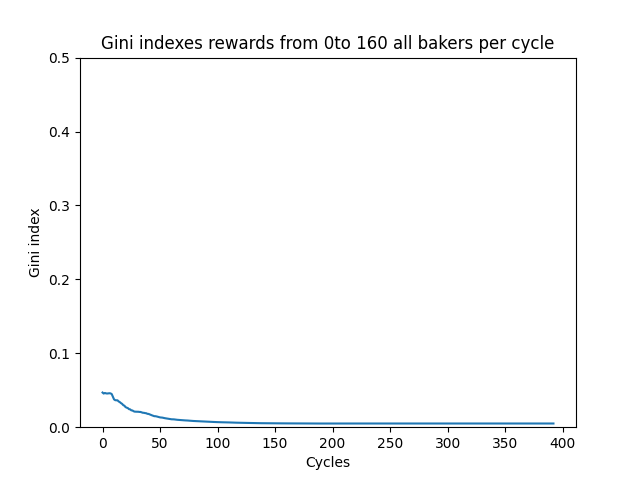
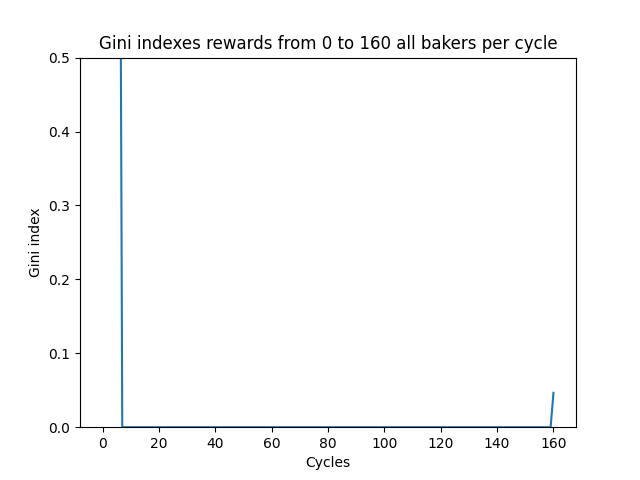
Correct gini index reward function

diff --git a/tezos_analysis.py b/tezos_analysis.py
@@ -18,7 +18,15 @@ def get_avg_reward_per_cycle():
 
 
 def get_baker_addresses():
-    baker_addresses = cur.execute('SELECT address FROM bakers').fetchall()
+    baker_addresses = cur.execute('SELECT DISTINCT(address) FROM bakers').fetchall()
+    baker_address_list = []
+    for add in baker_addresses:
+        baker_address_list.append(add[0])
+    return baker_address_list
+
+
+def get_baker_addresses_from_block():
+    baker_addresses = cur.execute('SELECT DISTINCT(baker) FROM blocks').fetchall()
     baker_address_list = []
     for add in baker_addresses:
         baker_address_list.append(add[0])
@@ -29,23 +37,20 @@ def calculate_gini_index(wealths):
     """Compute Gini coefficient of array of values"""
     # convert list to numpy array
     wealths = np.asarray(wealths)
-    diffsum = 0
-    for i, xi in enumerate(wealths[:-1], 1):
-        diffsum += np.sum(np.abs(xi - wealths[i:]))
-    return diffsum / (len(wealths) ** 2 * np.mean(wealths))
+    if np.sum(wealths) == 0:
+        return 1
+    else:
+        diffsum = 0
+        for i, xi in enumerate(wealths[:-1], 1):
+            diffsum += np.sum(np.abs(xi - wealths[i:]))
+        return diffsum / (len(wealths) ** 2 * np.mean(wealths))
 
 
-# TODO: check this
 def compute_gini_all_bakers_per_cycle(start, end):
     gini_indexes_list = []
-    rewards = []
-    baker_address_list = get_baker_addresses()
-    # TODO=: check What we want: for each baker (i.e. about 400 baker -> 400 arrays) an array of rewards -> for each
-    #  of these we compute the gini and for each cycle we take all the rewards of the bakers and take the gini index
-    #  per baker per cycle
-    for baker in baker_address_list:
-        rew = cur.execute('SELECT reward FROM blocks where baker=? AND cycle >=? AND cycle <=? GROUP BY '
-                          'cycle, baker', (baker, start, end)).fetchall()
+    for cycle in range(start, end+1):
+        rewards = []
+        rew = cur.execute('SELECT reward FROM blocks WHERE cycle = %s' % cycle).fetchall()
         for r in rew:
             rewards.append(r[0])
         np.asarray(rewards)
@@ -146,7 +151,6 @@ def plot_histogram_5cycles_baker_rewards():
     plt.close()
 
 
-# TODO: needed?
 def plot_gini_indexes_rewards_all_bakers_per_cycle(start, end):
     gini_indexes_all_bakers_rewards = compute_gini_all_bakers_per_cycle(start, end)
     y_data_length = len(gini_indexes_all_bakers_rewards)
@@ -155,7 +159,7 @@ def plot_gini_indexes_rewards_all_bakers_per_cycle(start, end):
     y_data = gini_indexes_all_bakers_rewards
     plt.ylim(0.0, 0.5)  # make it the same scale as the plots for the stakes
     plt.plot(x_data, y_data)
-    plt.title('Gini indexes rewards from ' + str(start) + 'to ' + str(end) + ' all bakers per cycle')
+    plt.title('Gini indexes rewards from ' + str(start) + ' to ' + str(end) + ' all bakers per cycle')
     plt.xlabel('Cycles')
     plt.ylabel('Gini index')
     plt.savefig('Gini_indexes_all_bakers_' + str(start) + 'to' + str(end) + '_rewards_per_cycle.png')
@@ -240,8 +244,8 @@ if __name__ == '__main__':
     plot_reward_standard_deviation_all_cycles()
     plot_histogram_5cycles_baker_rewards()
     # Plot gini indexes of baker rewards for each era
-    # TODO: check this does not seem to give a reasonable gini for the rewards
-    #plot_gini_indexes_rewards_all_bakers_per_cycle(0, 160)  # takes a while, to debug the rest uncomment this
+    # TODO: check this does not seem to give a reasonable gini for the rewards -> DEBUG
+    plot_gini_indexes_rewards_all_bakers_per_cycle(250, 251)  # takes a while, to debug the rest uncomment this
     #plot_gini_indexes_rewards_all_bakers_per_cycle(161, 207)
     #plot_gini_indexes_rewards_all_bakers_per_cycle(208, 270)
     #plot_gini_indexes_rewards_all_bakers_per_cycle(271, 325)
